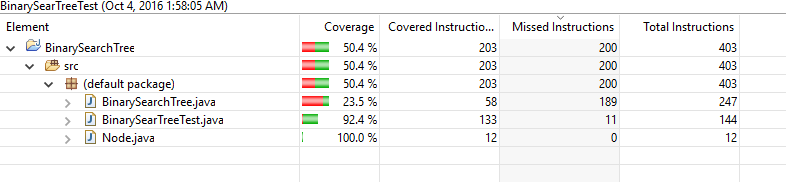
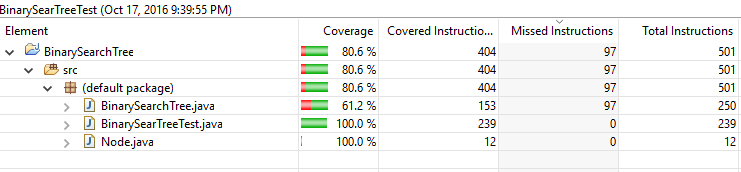
update BT2 using Data Flow Testing

Changed region(s): [[0.0, 0.0, 1.0, 1.0], [0.0, 0.9593, 0.6208, 0.9884]]

diff --git a/Nhom-07/NguyenThiLuong/BT2/src/BinarySearTreeTest.java b/Nhom-07/NguyenThiLuong/BT2/src/BinarySearTreeTest.java
@@ -3,53 +3,123 @@ import static org.junit.Assert.*;
 import org.junit.Test;
 
 public class BinarySearTreeTest {
-	public static BinarySearchTree initialData() {
+	int [] arr1 ={ 1, 2, 3, 7, 6, 8, 9, 10, 15, 16, 25,20};
+	int [] arr2 = {3,2,7,4,8,1,9,6};
+	// test class Note
+	@Test
+	public void initalNote(){	
+		Node node = new Node(1);
+		assertEquals(1, node.data);
+		assertEquals(null, node.left);
+		assertEquals(null, node.right);
+	}
+	public static BinarySearchTree initialData(int[] array) {
+		boolean result;
 		BinarySearchTree bst = new BinarySearchTree();
-		int [] arr ={0,1, 2, 3, 4, 6, 8, 9, 10, 15, 16, 20, 25};
+		
 		int x= 4;
 		
-		for(int i=0; i < arr.length; i++)
+		for(int i=0; i < array.length; i++)
 		{
-			bst.insert(arr[i]);		
+			result = bst.insert(array[i]);				
+
 		}
 		return bst;
 	}
-	 BinarySearchTree BSTTest = initialData();
+	
+	 BinarySearchTree BSTTest1 = initialData(arr1);
 	// test find method before delete
+	 
 	@Test
 	public void notFoundTest(){	
-		boolean result = BSTTest.find(-1);
+		boolean result = BSTTest1.find(-1);
+		 assertEquals(false, result);
+	}
+	@Test
+	public void foundRootTest(){		 
+		boolean result = BSTTest1.find(0);
 		 assertEquals(false, result);
 	}
 	@Test
 	public void foundTest(){		 
-		boolean result = BSTTest.find(1);
+		boolean result = BSTTest1.find(1);
 		 assertEquals(true, result);
 	}
 	
 	// test delete
 	@Test
 	public void notdeletedTest (){		 
-		boolean result = BSTTest.find(-1);
+		boolean result = BSTTest1.delete(-1);
+		assertEquals(false, result);
+	}
+	@Test
+	public void deleteRoot (){		 
+		boolean result = BSTTest1.delete(0);
 		assertEquals(false, result);
 	}
 	@Test
 	public void deletedTest (){		 
-		boolean result = BSTTest.find(1);
+		boolean result = BSTTest1.delete(1);
 		assertEquals(true, result);
 	}
-	
+	@Test
+	public void deleteLeftLeafNull(){		 
+		boolean result = BSTTest1.delete(11);
+		 assertEquals(false, result);
+	}
 	// test find method before delete
 	@Test
 	public void notFoundafterDeleteTest(){	
-		boolean result = BSTTest.find(1);
+		boolean result = BSTTest1.find(1);
 		assertEquals(true, result);
 	}
+	@Test
 	public void foundAfterDeleteTest(){		 
-		boolean result = BSTTest.find(2);
+		boolean result = BSTTest1.find(2);
 		 assertEquals(true, result);
 	}
+	// test  getSuccessor method
+	@Test
+	public void testgetSuccessorRightNull(){		 
+		Node deleteNode = new Node(3);
+		 assertEquals(null, BSTTest1.getSuccessor(deleteNode));
+	}
+	@Test
+	public void testgetSuccessorGetRight(){		 
+		Node deleteNode = new Node(3);
+		Node result = new Node(4);
+		deleteNode.right = new Node(4);
+		deleteNode.left = new Node(2);
+		
+		 assertEquals(null, BSTTest1.getSuccessor(deleteNode).right);
+	}
+	
+	
+	// Using Testing Data Flow
+	
+	// using Insert method
+	
+		
+		
+		
+	BinarySearchTree BSTTest2 = initialData(arr2);
+	// Test Find Method using binary search tree inserted using insert method
+	@Test
+	public void notFoundTestTree2(){	
+		boolean result = BSTTest2.find(5);
+		assertEquals(false, result);
+	}
+	public void foundTest1Tree2(){	
+		boolean result = BSTTest2.find(3);
+		assertEquals(true, result);
+	}
+	public void foundTest2Tree2(){	
+		boolean result = BSTTest2.find(7);
+		assertEquals(true, result);
+	}
+	
 }
+
 
 		 
 		 

diff --git a/Nhom-07/NguyenThiLuong/BT2/src/BinarySearchTree.java b/Nhom-07/NguyenThiLuong/BT2/src/BinarySearchTree.java
@@ -4,11 +4,11 @@ public class BinarySearchTree {
 	public BinarySearchTree(){
 		this.root = null;
 	}
-	public void insert(int id){
+	public boolean insert(int id){
 		Node newNode = new Node(id);
 		if(root == null){
 			root = newNode;
-			return;
+			return true;
 		}
 		Node current = root;
 		Node parent = null;
@@ -18,13 +18,13 @@ public class BinarySearchTree {
 				current = current.left;
 				if(current == null){
 					parent.left = newNode;
-					return;
+					return true;
 				}
 			}else{
 				current = current.right;
 				if(current == null){
 					parent.right = newNode;
-					return;
+					return true;
 				}
 			}
 		}
